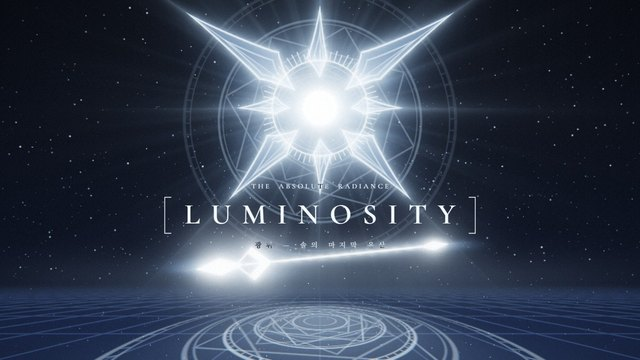
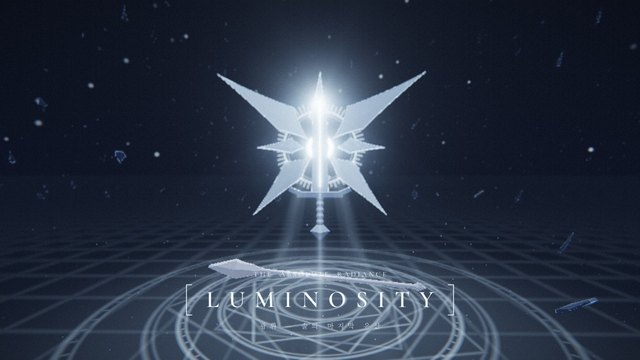
LUMINOSITY V2: 9.66초 이후를 전부 새로 — 참고 영상(구름·빛줄기)을 버리고 실시간 3D 레이마칭
B 잔해의 바다: 부서진 동족(날개 조각 파편)이 떠도는 어둠을 지나 멀리 빛나는 검으로 다가감
C 마지막 검: 거대한 수정 검을 아래에서 — 혼돈의 씨앗(검은 구)이 검날에 끌려와 닿는 순간 타오르고, 16.44 검신에 빛이 차오름
D 점화: 정면 — 여덟 날개 조각(3D 보석 판)이 타격점마다 날아와 x·+ 로 자리 잡고, 광선 고리가 묶음
E 아우라: 바닥의 두 문양 위에 떠 있는 검·날개·고리·핵·창, 제목
수정 검 SDF(마름모 단면 날·코등이·손잡이·자루끝), 깊이 → 피사계 심도, 검의 빛이 안개에 번짐, 갓레이. 글자는 어두운 판 위 흰색.

diff --git a/public/cutscenes.html b/public/cutscenes.html
@@ -82,8 +82,8 @@ const CUTSCENES = [
     desc: "솔의 일식 코로나 아래 일곱 무기가 혼돈을 부수고, 하나씩 산산조각 난 끝에 마지막 검이 빛날개를 펼친다. 전부 셰이더로 그린 컷 편집 — 금속 질감 무기, 삼각 파편 파쇄, 혼돈의 연기, 빛날개.",
     tags: ["WebGL2", "컷 편집", "사운드 동기"], needsAudio: true },
   { id: "luminosity2", title: "LUMINOSITY V2", ko: "절대적인 광채", page: "/luminosity2_gl.html", kit: true, thumb: "/thumbs/luminosity2.jpg", dur: "0:28",
-    desc: "소용돌이에서 또렷해지는 문양과 THE ABSOLUTE RADIANCE, 세 줄의 사슬에 묶인 별, 구름 속으로 쏟아지는 빛줄기와 세 마디의 말 — 홀로 남은 검에 여덟 날개 조각이 모여 아우라가 된다.",
-    tags: ["WebGL2", "셰이더", "사운드 동기"], needsAudio: true },
+    desc: "소용돌이에서 또렷해지는 문양과 THE ABSOLUTE RADIANCE, 세 줄의 사슬에 묶인 별 — 그리고 부서진 동족의 잔해가 떠도는 어둠 속, 혼돈의 씨앗을 태우는 수정 검에 여덟 날개 조각이 모여 아우라가 된다. 실시간 3D 레이마칭.",
+    tags: ["WebGL2", "3D 레이마칭", "사운드 동기"], needsAudio: true },
   { id: "pixelation", title: "PIXELATION", ko: "픽셀레이션", page: "/pixelation_gl.html", kit: true, thumb: "/thumbs/pixelation.jpg", dur: "0:34",
     desc: "디지털 월드에 봉인된 “완전히 무해한” 자아. 팝업 광고가 무해하다고 우기는 동안 HP는 닳고, 사슬은 끊기고, 화면은 말 그대로 픽셀화된다. 195 BPM 에 맞춘 우스꽝스러운 광고 컨셉.",
     tags: ["WebGL2", "픽셀 아트", "음악 동기"], needsAudio: true },
